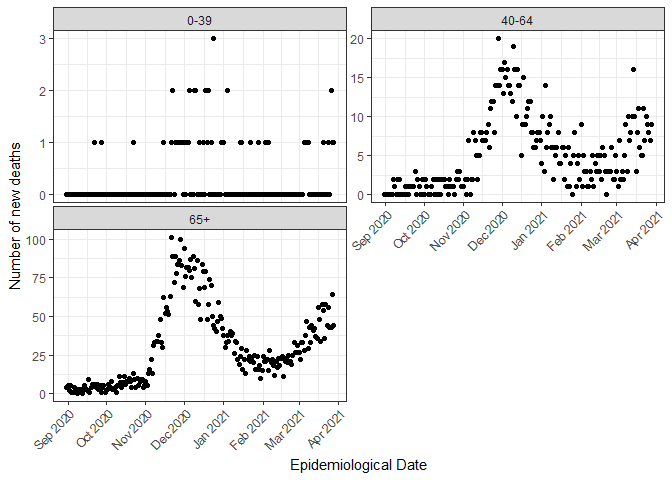
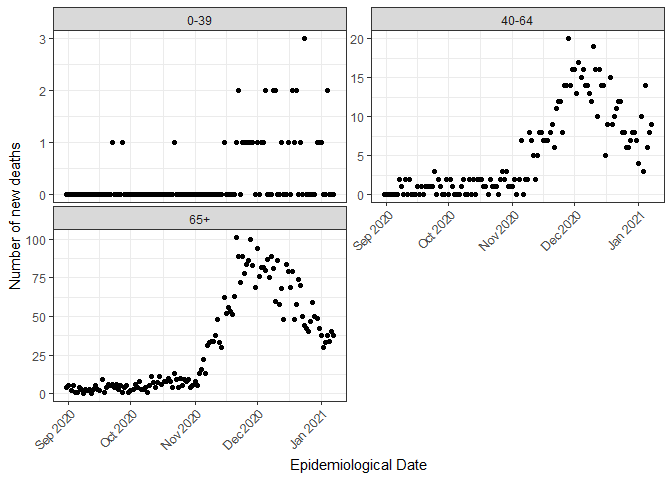
Minor edits & material added to README

diff --git a/README.md b/README.md
@@ -81,13 +81,19 @@ lapply(lib, require, character.only = TRUE)
 ## Example - COVID-19 in Greece
 
 The time series of new daily age-specific mortality and incidence counts
-are ordered by epidemiological date. The time horizon in the example
-datasets for Greece spans from 2020-08-31 to 2021-03-28.
+are ordered by epidemiological date. The model described below can be
+computationally expensive to implement and so we restrict the analysis
+to shorter time horizon. The time horizon in the example datasets for
+Greece spans from 2020-08-31 to 2021-03-28 (210 days). We analyse the
+subset from 2020-08-31 to 2021-01-07 (130 days).
 
 ``` r
 Sys.setlocale("LC_ALL", "English")
 data(age_specific_mortality_counts)
 data(age_specific_infection_counts)
+
+age_specific_mortality_counts <- subset(age_specific_mortality_counts, Date <="2021-01-07")
+age_specific_infection_counts <- subset(age_specific_infection_counts, Date <="2021-01-07")
 ```
 
 ``` r
@@ -160,6 +166,49 @@ ditd <- itd_distribution(ts_length  = nrow(age_specific_mortality_counts),
                          gamma_cv   = 0.3987261)
 ```
 
+## Modeling framework
+
+### Diffusion-driven multi-type transmission process
+
+### Observation process
+
+Denote the number of observed deaths on day $t = 1, \ldots, T$ in age
+group $\alpha \in \{1,\ldots,A\}$ by $y_{t,\alpha}$. A given infection
+may lead to observation events (i.e deaths) in the future. A link
+between $y_{t,\alpha}$ and the expected number of new age-stratified
+infections is established via the function $$
+\begin{equation*}
+d_{t,\alpha} = \mathbb{E}[y_{t,\alpha}] = \widehat{\text{IFR}}_{\alpha} \times \sum_{s = 1}^{t-1}h_{t-s} \Delta^{\text{infec}}_{s, \alpha}
+\end{equation*}
+$$ on the new expected age-stratified mortality counts, $d_{t,\alpha}$,
+the estimated age-stratified infection fatality rate,
+$\widehat{\text{IFR}}_{\alpha}$, and the infection-to-death distribution
+$h$, where $h_s$ gives the probability the death occurs on the $s^{th}$
+day after infection, is assumed to be gamma distributed with mean 24.2
+days and coefficient of variation 0.39 , that is $$
+\begin{equation}\label{eq:itd}
+h \sim \operatorname{Gamma}(6.29, 0.26).
+\end{equation}
+$$ We allow for over-dispersion in the observation processes to account
+for noise in the underlying data streams, for example due to day-of-week
+effects on data collection, and link $d_{t,\alpha}$ to $y_{t,\alpha}$
+through an over-dispersed count model $$
+\begin{equation}\label{eq:negbin}
+y_{t,\alpha}\mid \theta \sim \operatorname{NegBin}\left(d_{t,\alpha}, \xi_{t,\alpha}\right),
+\end{equation}
+$$ where $\xi_{t,\alpha} = \frac{d_{t,\alpha}}{\phi}$, such that
+$\mathbb{V}[y_{t,\alpha}] = d_{t,\alpha}(1+\phi)$. The log-likelihood of
+the observed deaths is given by $$
+\begin{equation*}
+\ell^{Deaths}(y\mid \theta) = \sum_{t=1}^{T}\sum_{\alpha=1}^{A}\text{logNegBin}\left(y_{t,\alpha}\mid d_{t,\alpha}, \xi_{t,\alpha}\right),
+\end{equation*}
+$$ where $y \in \mathbb{R}^{T \times A}_{0,+}$ are the surveillance data
+on deaths for all time-points.
+
+### Prior specification
+
+## Model fitting
+
 Before performing MCMC, we can execute the routine for maximizing the
 joint posterior from the model. The estimates can be used as
 initialization points for the HMC algorithm.
@@ -183,10 +232,8 @@ igbm_fit_init <- stan_igbm(y_data                      = age_specific_mortality_
                            )
 ```
 
-    ## Warning in .local(object, ...): non-zero return code in optimizing
-
     ## Error in chol.default(-H) : 
-    ##   the leading minor of order 1 is not positive definite
+    ##   the leading minor of order 394 is not positive definite
 
 ``` r
 sampler_init <- function(){
